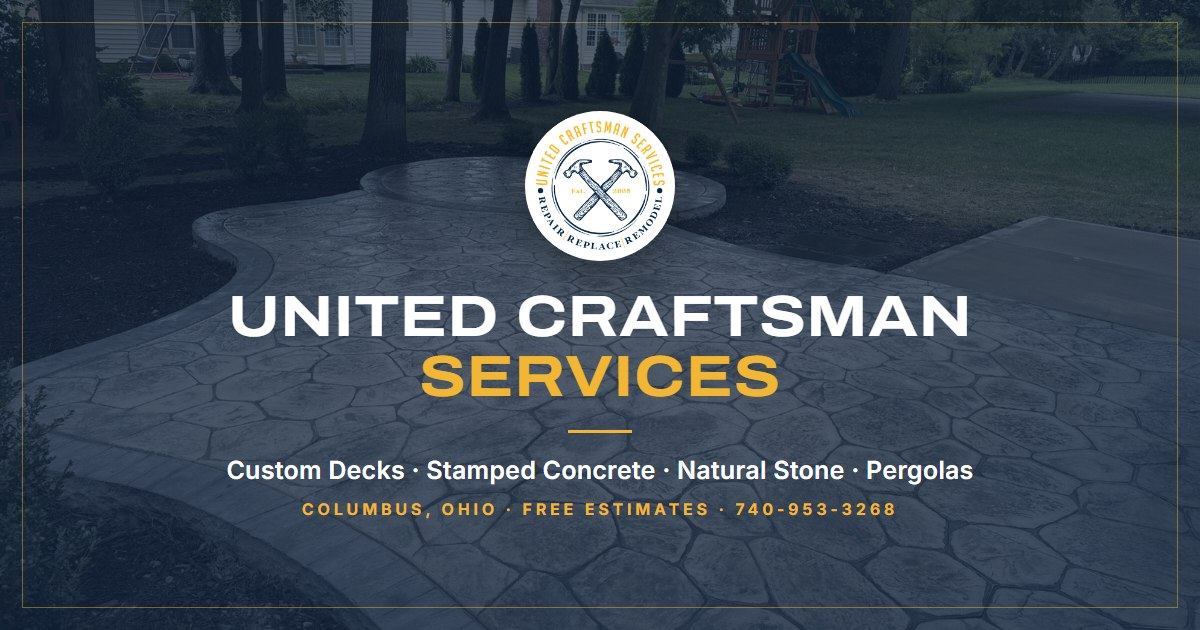
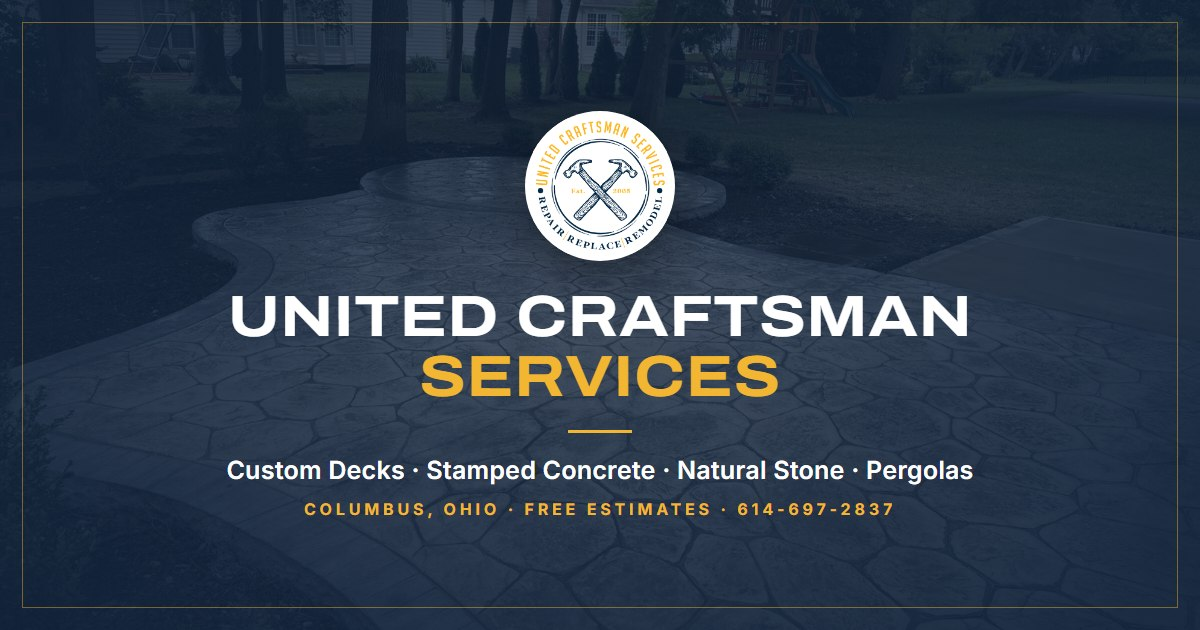
Add files via upload

diff --git a/index.html b/index.html
@@ -521,9 +521,9 @@
       <span class="brand-name">United Craftsman<small>Services · Est. 2005</small></span>
     </a>
     <div class="util util-right">
-      <a href="tel:+17409533268" class="nav-phone" aria-label="Call 740-953-3268">
+      <a href="tel:+16146972837" class="nav-phone" aria-label="Call 614-697-2837">
         <svg viewBox="0 0 24 24" fill="none" stroke="currentColor" stroke-width="2" stroke-linecap="round" stroke-linejoin="round"><path d="M22 16.9v3a2 2 0 0 1-2.2 2 19.8 19.8 0 0 1-8.6-3.1 19.5 19.5 0 0 1-6-6A19.8 19.8 0 0 1 2.1 4.2 2 2 0 0 1 4.1 2h3a2 2 0 0 1 2 1.7c.1.9.4 1.8.7 2.7a2 2 0 0 1-.5 2.1L8 9.8a16 16 0 0 0 6 6l1.3-1.3a2 2 0 0 1 2.1-.4c.9.3 1.8.6 2.7.7a2 2 0 0 1 1.7 2z"/></svg>
-        <span>740-953-3268</span>
+        <span>614-697-2837</span>
       </a>
       <a href="#quote" class="btn btn-sm">Get a Quote</a>
       <button type="button" class="menu-toggle" id="menu-toggle" aria-expanded="false" aria-controls="menu-panel">
@@ -560,8 +560,8 @@
       <a href="reviews.html">Reviews</a>
     </nav>
     <div class="menu-contact">
-      <a href="tel:+17409533268">Call 740-953-3268</a>
-      <a href="mailto:SeanPHundo@gmail.com">SeanPHundo@gmail.com</a>
+      <a href="tel:+16146972837">Call 614-697-2837</a>
+      <a href="mailto:sean@unitedcraftsman.com">sean@unitedcraftsman.com</a>
       <a href="#quote" class="btn">Get a Free Quote</a>
     </div>
   </div>
@@ -874,11 +874,11 @@
           <ul class="contact-list">
             <li>
               <span class="ico"><svg viewBox="0 0 24 24" fill="none" stroke="currentColor" stroke-width="2" stroke-linecap="round" stroke-linejoin="round"><path d="M22 16.9v3a2 2 0 0 1-2.2 2 19.8 19.8 0 0 1-8.6-3.1 19.5 19.5 0 0 1-6-6A19.8 19.8 0 0 1 2.1 4.2 2 2 0 0 1 4.1 2h3a2 2 0 0 1 2 1.7c.1.9.4 1.8.7 2.7a2 2 0 0 1-.5 2.1L8 9.8a16 16 0 0 0 6 6l1.3-1.3a2 2 0 0 1 2.1-.4c.9.3 1.8.6 2.7.7a2 2 0 0 1 1.7 2z"/></svg></span>
-              <div><small>Call Sean</small><a href="tel:+17409533268">740-953-3268</a></div>
+              <div><small>Call Sean</small><a href="tel:+16146972837">614-697-2837</a></div>
             </li>
             <li>
               <span class="ico"><svg viewBox="0 0 24 24" fill="none" stroke="currentColor" stroke-width="2" stroke-linecap="round" stroke-linejoin="round"><rect x="2" y="4" width="20" height="16" rx="2"/><path d="m22 7-10 6L2 7"/></svg></span>
-              <div><small>Email</small><a href="mailto:SeanPHundo@gmail.com">SeanPHundo@gmail.com</a></div>
+              <div><small>Email</small><a href="mailto:sean@unitedcraftsman.com">sean@unitedcraftsman.com</a></div>
             </li>
             <li>
               <span class="ico"><svg viewBox="0 0 24 24" fill="none" stroke="currentColor" stroke-width="2" stroke-linecap="round" stroke-linejoin="round"><path d="M12 21s-7-6.1-7-11a7 7 0 0 1 14 0c0 4.9-7 11-7 11z"/><circle cx="12" cy="10" r="2.5"/></svg></span>
@@ -948,12 +948,12 @@
           <p class="form-error" id="form-error" role="alert" hidden></p>
           <button type="submit" class="btn">Request My Free Quote</button>
           <p class="form-note">By submitting, you agree that United Craftsman Services may call, text or email you about your request using the contact details provided. Consent to texts is not a condition of any purchase. Message frequency varies; message and data rates may apply. Reply STOP to opt out or HELP for help. See our <a href="privacy.html">Privacy Policy</a> and <a href="terms.html#sms">Terms of Service</a>.</p>
-          <p class="form-note">Having trouble? <a href="https://forms.gle/m5pQG25VTLtiMMTM7" target="_blank" rel="noopener">Open the quote form on Google Forms</a> or call 740-953-3268.</p>
+          <p class="form-note">Having trouble? <a href="https://forms.gle/m5pQG25VTLtiMMTM7" target="_blank" rel="noopener">Open the quote form on Google Forms</a> or call 614-697-2837.</p>
         </form>
         <div class="form-done" id="form-done" hidden tabindex="-1">
           <h3>Thanks for reaching out!</h3>
           <p>We've got your project details. A member of our team will contact you within 24–48 hours to talk through your vision and set up a free estimate.</p>
-          <p>Need us sooner? Call Sean at <a href="tel:+17409533268" style="color:#fff;font-weight:600">740-953-3268</a>.</p>
+          <p>Need us sooner? Call Sean at <a href="tel:+16146972837" style="color:#fff;font-weight:600">614-697-2837</a>.</p>
         </div>
         <iframe name="gform-sink" id="gform-sink" title="Quote form submission" hidden></iframe>
       </div>
@@ -970,7 +970,7 @@
     <div class="foot-cols">
       <div>
         <h3>Contact</h3>
-        <p><a href="tel:+17409533268">740-953-3268</a><br><a href="mailto:SeanPHundo@gmail.com">SeanPHundo@gmail.com</a></p>
+        <p><a href="tel:+16146972837">614-697-2837</a><br><a href="mailto:sean@unitedcraftsman.com">sean@unitedcraftsman.com</a></p>
       </div>
       <div>
         <h3>Service area</h3>

diff --git a/terms.html b/terms.html
@@ -82,7 +82,7 @@
         <li><strong>What we send:</strong> UCS may send text messages about your quote request, consultation and project, such as appointment scheduling, estimate follow-up and project updates.</li>
         <li><strong>Consent:</strong> By giving us your mobile number on our quote form or in conversation and asking us to contact you, you agree to receive these texts from UCS. Consent is not a condition of any purchase.</li>
         <li><strong>Frequency and cost:</strong> Message frequency varies. Message and data rates may apply.</li>
-        <li><strong>Opting out:</strong> Reply STOP to any message to stop receiving texts. Reply HELP for help, or call 740-953-3268.</li>
+        <li><strong>Opting out:</strong> Reply STOP to any message to stop receiving texts. Reply HELP for help, or call 614-697-2837.</li>
         <li><strong>Privacy:</strong> We do not share your mobile number or text messaging consent with third parties or affiliates for their marketing purposes. See our <a href="privacy.html#sms">Privacy Policy</a>.</li>
         <li>Mobile carriers are not liable for delayed or undelivered messages.</li>
       </ul>
@@ -112,8 +112,8 @@
       <div class="contact-card">
         <p><strong>United Craftsman Services, LLC</strong></p>
         <p>Columbus, Ohio</p>
-        <p>Phone: <a href="tel:+17409533268">740-953-3268</a></p>
-        <p>Email: <a href="mailto:SeanPHundo@gmail.com">SeanPHundo@gmail.com</a></p>
+        <p>Phone: <a href="tel:+16146972837">614-697-2837</a></p>
+        <p>Email: <a href="mailto:sean@unitedcraftsman.com">sean@unitedcraftsman.com</a></p>
       </div>
     </article>
   </div>

diff --git a/accessibility.html b/accessibility.html
@@ -60,8 +60,8 @@
       <p>If something on this site is hard to use or doesn't work with your assistive technology, please let us know. Tell us the page and what happened, and we'll work to fix it and get you the information you need another way in the meantime.</p>
       <div class="contact-card">
         <p><strong>United Craftsman Services, LLC</strong></p>
-        <p>Phone: <a href="tel:+17409533268">740-953-3268</a></p>
-        <p>Email: <a href="mailto:SeanPHundo@gmail.com">SeanPHundo@gmail.com</a></p>
+        <p>Phone: <a href="tel:+16146972837">614-697-2837</a></p>
+        <p>Email: <a href="mailto:sean@unitedcraftsman.com">sean@unitedcraftsman.com</a></p>
       </div>
     </article>
   </div>

diff --git a/reviews.html b/reviews.html
@@ -107,7 +107,7 @@
     <div class="empty" id="review-empty" hidden>
       <h2>Reviews coming soon</h2>
       <p>We're collecting reviews from recent projects. If we've worked on your home, we'd love to hear how it went.</p>
-      <p>Call <a href="tel:+17409533268">740-953-3268</a> or email <a href="mailto:SeanPHundo@gmail.com?subject=My%20UCS%20review">SeanPHundo@gmail.com</a>.</p>
+      <p>Call <a href="tel:+16146972837">614-697-2837</a> or email <a href="mailto:sean@unitedcraftsman.com?subject=My%20UCS%20review">sean@unitedcraftsman.com</a>.</p>
     </div>
 
     <div class="cta">

diff --git a/privacy.html b/privacy.html
@@ -121,8 +121,8 @@
       <div class="contact-card">
         <p><strong>United Craftsman Services, LLC</strong></p>
         <p>Columbus, Ohio</p>
-        <p>Phone: <a href="tel:+17409533268">740-953-3268</a></p>
-        <p>Email: <a href="mailto:SeanPHundo@gmail.com">SeanPHundo@gmail.com</a></p>
+        <p>Phone: <a href="tel:+16146972837">614-697-2837</a></p>
+        <p>Email: <a href="mailto:sean@unitedcraftsman.com">sean@unitedcraftsman.com</a></p>
       </div>
     </article>
   </div>
